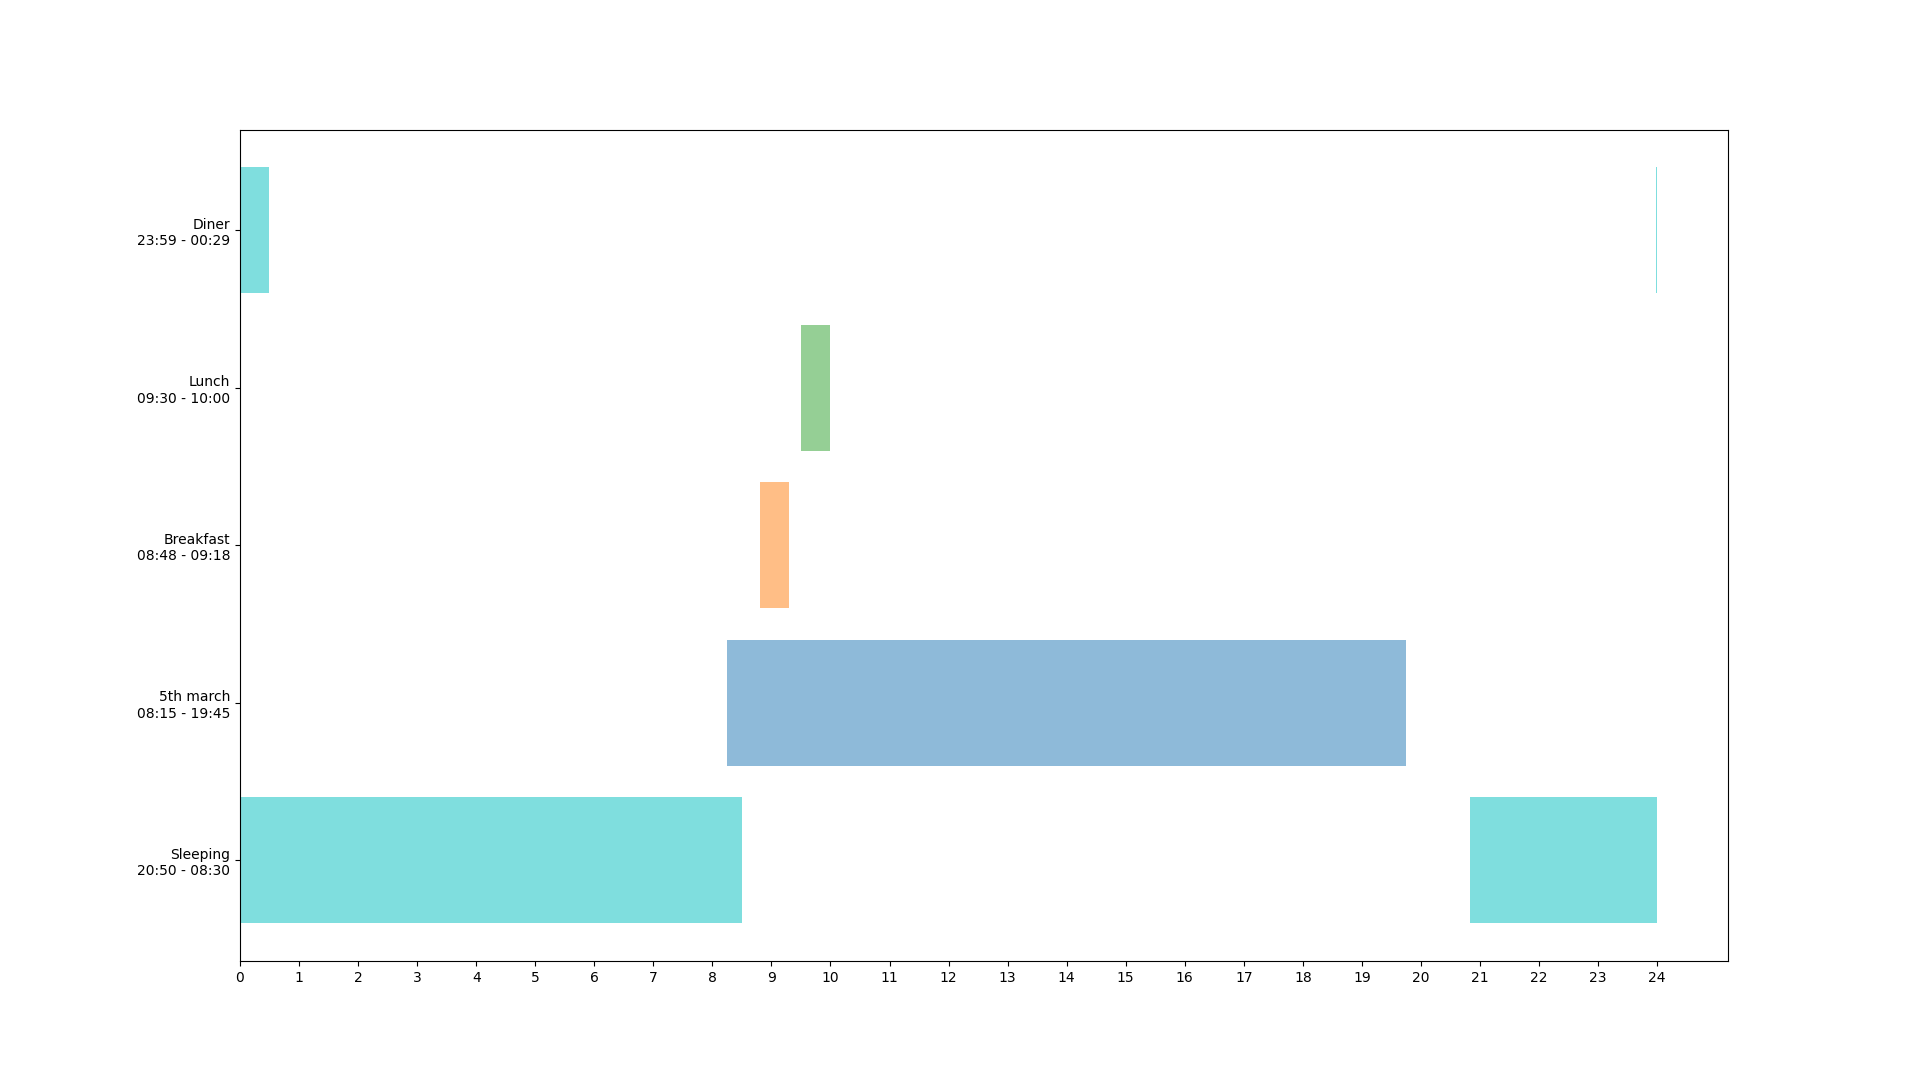
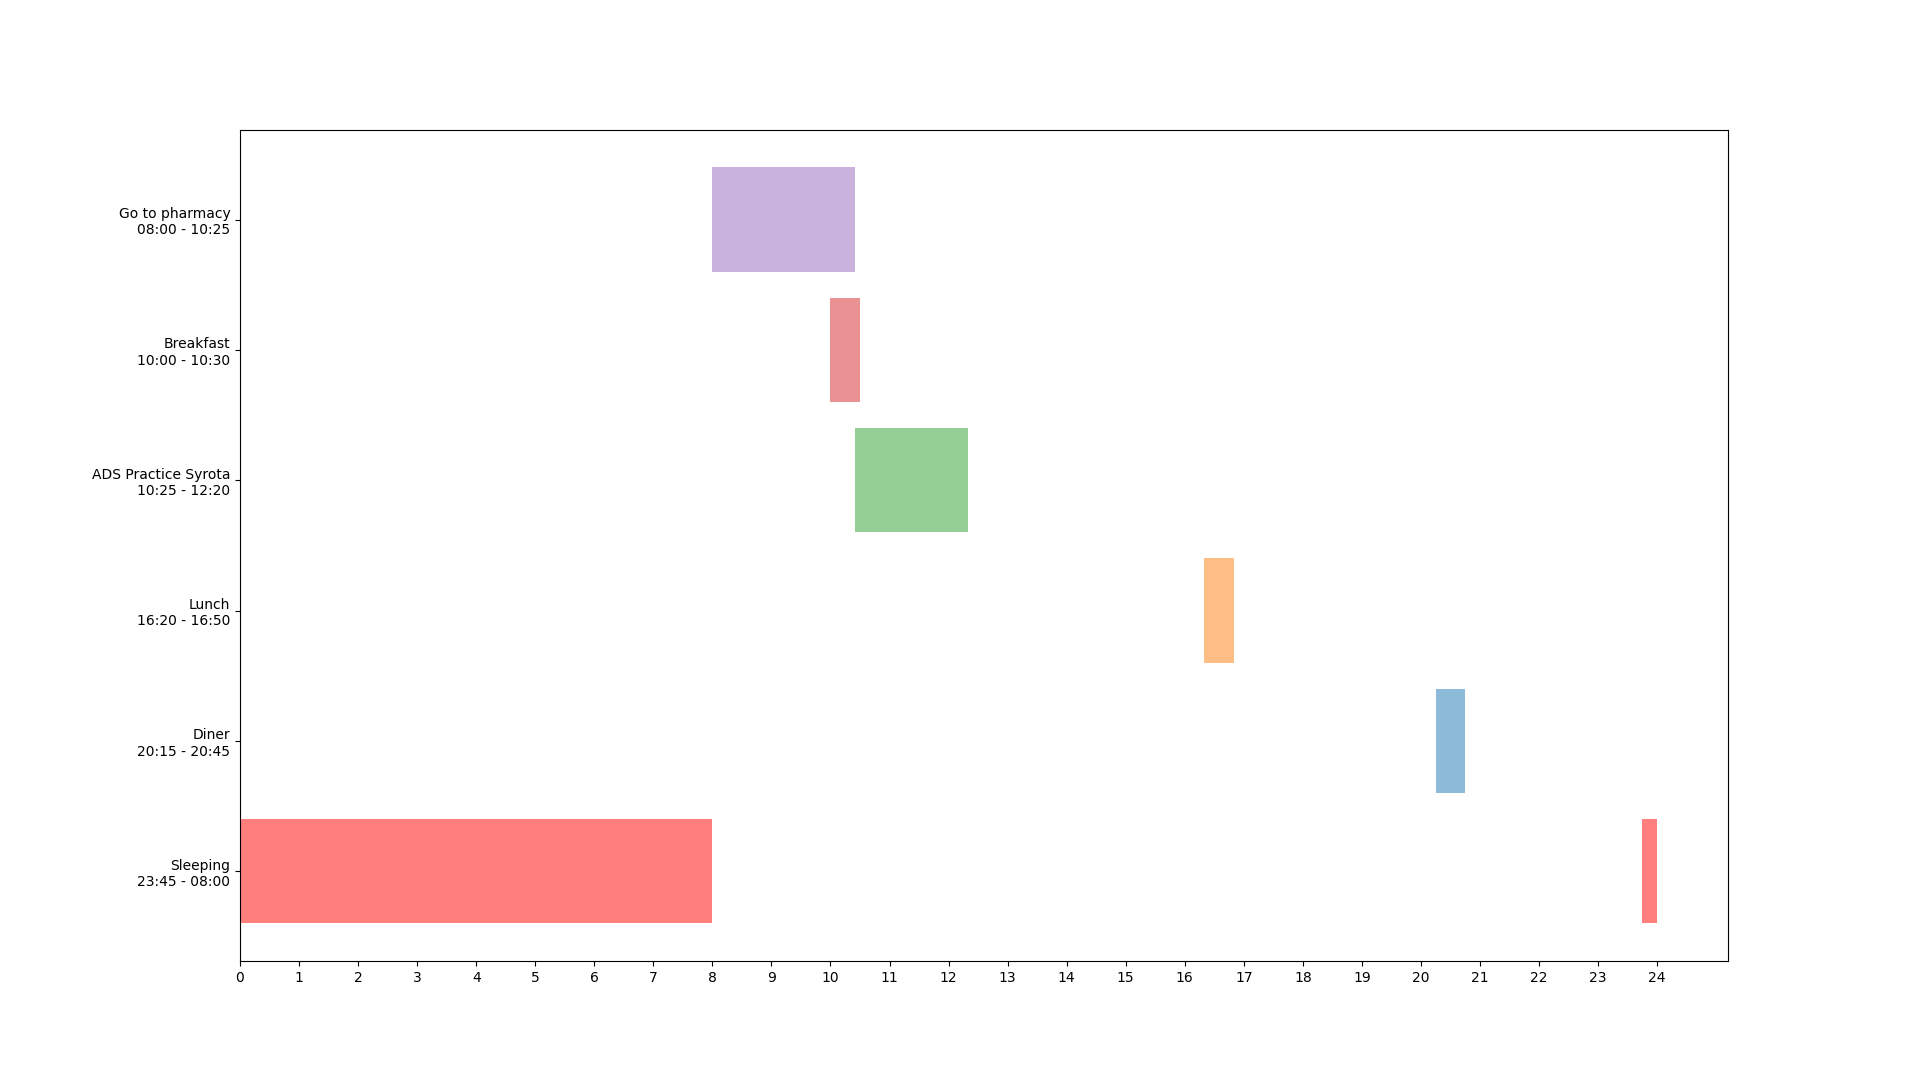
Notification fix

diff --git a/Events/Custom_event.py b/Events/Custom_event.py
@@ -96,61 +96,4 @@ def custom_end_time(message):
         new_event.re = False
         print(new_event.start_time)
         print(new_event.end_time)
-        # schedule.every().days.at(new_event.start_time).do(bot_send, message,
-        #                                                   f"Time for event <b>{new_event.event}</b>\n"
-        #                                                   f"{new_event.start_time} - {new_event.end_time}",
-        #                                                   new_event.day)
         new_event.create()
-
-
-# def finish_custom(message):
-#     if message.text == 'Yes':
-#         markup = types.ReplyKeyboardMarkup(resize_keyboard=True)
-#         item1 = types.KeyboardButton("Every day")
-#         item2 = types.KeyboardButton("Every week")
-#         markup.add(item1, item2)
-#         bot.send_message(message.chat.id, "Select a repeat frequency: ", reply_markup=markup)
-#         new_event.re = True
-#         bot.register_next_step_handler(message, custom_period)
-#     elif message.text == 'No, thanks':
-#         markup = default_markup()
-#         bot.send_message(message.chat.id, "Understandable, have a nice day)", reply_markup=markup)
-#         new_event.re = False
-#         print(new_event.start_time)
-#         print(new_event.end_time)
-#         new_event.create()
-#         schedule.every().days.at(new_event.start_time).do(bot_send, message,
-#                                                           f"Time for event <b>{new_event.event}</b>\n"
-#                                                           f"{new_event.start_time} - {new_event.end_time}",
-#                                                           new_event.day)
-#     else:
-#         bot.send_message(message.chat.id, "Please, select option from the keyboard: ")
-#         markup = types.ReplyKeyboardMarkup(resize_keyboard=True)
-#         item1 = types.KeyboardButton("Yes")
-#         item2 = types.KeyboardButton("No, thanks")
-#         markup.add(item1, item2)
-#         bot.register_next_step_handler(message, finish_custom)
-#         bot.send_message(message.chat.id, "Same question: would you like to make this event repetitive time: ",
-#                          reply_markup=markup)
-#
-#
-# def custom_period(message):
-#     if message.text == "Every day":
-#         new_event.delta = 1
-#         new_event.create()
-#         schedule.every().days.at(new_event.start_time).do(bot_send, message,
-#                                                           f"Time for event <b>{new_event.event}</b>\n"
-#                                                           f"{new_event.start_time} - {new_event.end_time}")
-#         markup = default_markup()
-#         bot.send_message(message.chat.id, f"Event <b>{new_event.event}</b> successfully created",
-#                          parse_mode='html', reply_markup=markup)
-#     elif message.text == "Every week":
-#         new_event.delta = 7
-#         new_event.create()
-#         schedule.every().days.at(new_event.start_time).do(bot_send, message,
-#                                                           f"Time for event <b>{new_event.event}</b>\n"
-#                                                           f"{new_event.start_time} - {new_event.end_time}")
-#         markup = default_markup()
-#         bot.send_message(message.chat.id, "Event successfully created", reply_markup=markup)
-#     else:
-#         error(message, custom_period)

diff --git a/Events/Eating.py b/Events/Eating.py
@@ -5,7 +5,6 @@ def breakfast(message):
     try:
         time_breakfast = user_time(message, breakfast)
         if time_breakfast:
-            # schedule.every().days.at(time_breakfast).do(bot_send, message, "Time for breakfast\nBon appetit! ")
             bot.send_message(message.chat.id, f"You have a breakfast at {time_breakfast}. Noted✔")
             bot.send_message(message.chat.id, f"What time do you have lunch?")
             new_event.__init__()
@@ -24,9 +23,6 @@ def lunch(message):
     try:
         time_lunch = user_time(message, lunch)
         if time_lunch:
-            # schedule.every().days.at(time_lunch).do(bot_send, message,
-            #                                         "I wish i could eat lunch, but I am just a bot...\n"
-            #                                         "Go feed yourself")
             bot.send_message(message.chat.id, f"You have a lunch at {time_lunch}. Well, well, well...")
             bot.send_message(message.chat.id, f"What time do you have dinner?")
             new_event.__init__()
@@ -45,12 +41,6 @@ def dinner(message):
     try:
         time_dinner = user_time(message, dinner)
         if time_dinner:
-            # schedule.every().days.at(time_dinner).do(bot_send, message, f"Time for some delicious food.\n"
-            #                                                             "If you are interested in my opinion,"
-            #                                                             " I prefer some good sorted data."
-            #                                                             "\n\n\n\n\n\n\n"
-            #                                                             "P.S. There"
-            #                                                             " could be an add of your restaurant\n")
             new_event.__init__()
             new_event.id_clients = message.chat.id
             new_event.event = "Diner"

diff --git a/user_input.py b/user_input.py
@@ -15,19 +15,11 @@ def error(message, function):
 
 
 def bot_send(chat_id, name, day=None):
-    print(f"Checking event {name}, id {chat_id}, day{day}")
     if day is not None and str(day) != 'nan':
-        print("Day is not nan or None passed")
-        print(str(day) == str(datetime.datetime.now().date()), str(day), datetime.datetime.now().date(),
-              type(day), type(datetime.datetime.now().date()))
         if day == str(datetime.datetime.now().date()):
             bot.send_message(chat_id, f"{name}", parse_mode='html')
-            # time.sleep(60)
-            # return
     else:
         bot.send_message(chat_id, f"{name}", parse_mode='html')
-        # return
-        # time.sleep(60)
 
 
 def default_markup():
@@ -97,23 +89,16 @@ def correct_time(time_dinner):
     return time_f
 
 
-# def schedule_checker():
-#     while True:
-#         schedule.run_pending()
-#         time.sleep(1)
-
-
 def schedule_per_user():
     while True:
-        print(datetime.datetime.now())
+        # if os.stat(filename).st_size != 0:
         df = pd.read_csv(Schedule.Scheme.filename)
+        cur_time = correct_time(datetime.datetime.now().time())
+        cur_sec = datetime.datetime.now().time().second
         for row in df.itertuples():
-            print(row.start_time,
-                  f"{str(datetime.datetime.now().time().hour)}:{str(datetime.datetime.now().time().minute)}")
-            if f"{str(datetime.datetime.now().time().hour)}:{str(datetime.datetime.now().time().minute)}"\
-                    == str(row.start_time):
+            if f"{cur_time}:{cur_sec}" == f"{str(row.start_time)}:0":
                 bot_send(row.id_client,
                          f"Time for event <b>{row.name_event}</b>\n"
                          f"{row.start_time} - {row.end_time}",
                          row.event_day)
-        time.sleep(59)
+        time.sleep(1)

diff --git a/Schedule/Scheme.py b/Schedule/Scheme.py
@@ -1,7 +1,6 @@
 import random
 
 import matplotlib.pyplot as plt
-# import pandas as pd
 from telebot.types import CallbackQuery
 
 import telebot_calendar
@@ -60,13 +59,16 @@ def data_analysis(message, date):
                     rows_name.append(row.name_event)
                     first = row.start_time
                     second = row.end_time
-                    a = (first, second)
+                    a = (first, second, row.name_event)
                     x.append(a)
 
             fig, ax = plt.subplots()
             i = 0
+            print(x)
+            x.sort(key=lambda tup: tup[0], reverse=True)
+            print(x)
             for m, evt in enumerate(x):
-
+                print(evt)
                 start = int(evt[0].split(":")[0]) + ((int(evt[0].split(":")[1])) / 60)
                 finish = ((int(evt[1].split(":")[1]) - int(evt[0].split(":")[1])) / 60) + (
                     int(evt[1].split(":")[0])) - int(
@@ -74,17 +76,17 @@ def data_analysis(message, date):
 
                 if finish > start:
 
-                    ylabels.append(f'{rows_name[i]}\n'
+                    ylabels.append(f'{evt[2]}\n'
                                    f'{evt[0]} - {evt[1]}')
 
                     ax.barh(i, width=finish - start, left=start, alpha=0.5)
                     i += 1
 
                 else:
-                    print("ROW NAME", f'{rows_name[i]}\n'
-                          f'{evt[0]} - {evt[1]}')
+                    print("ROW NAME", f'{evt[2]}\n'
+                                      f'{evt[0]} - {evt[1]}')
 
-                    ylabels.append(f'{rows_name[i]}\n'
+                    ylabels.append(f'{evt[2]}\n'
                                    f'{evt[0]} - {evt[1]}')
 
                     colors = ['b', 'r', 'k', 'y', 'm', 'c']

diff --git a/Events/Sleeping.py b/Events/Sleeping.py
@@ -10,7 +10,6 @@ def get_up(message):
         new_event.event = "Sleeping"
         time_get_up = user_time(message, get_up)
         if time_get_up:
-            # schedule.every().days.at(time_get_up).do(bot_send, message, "Hi, it`s time to wake up!\n")
             bot.send_message(message.chat.id, f"Okay, so you wake up at {time_get_up}. Huh, interesting.\n"
                                               f"Let me know, when you go to bed?")
             new_event.end_time = time_get_up
@@ -24,9 +23,6 @@ def got_to_bed(message):
     try:
         time_go_to_bed = user_time(message, got_to_bed)
         if time_go_to_bed:
-            # schedule.every().days.at(time_go_to_bed).do(bot_send, message, "That was a productive day.\n"
-            #                                                                "Time to relax.\n"
-            #                                                                "Time to sleep")
             bot.send_message(message.chat.id, f"Okay, you go to bed at {time_go_to_bed}. Hmm, that`s interesting.\n"
                                               f"I think we're done here.\nNow you can set up another part of your life")
             new_event.start_time = time_go_to_bed
